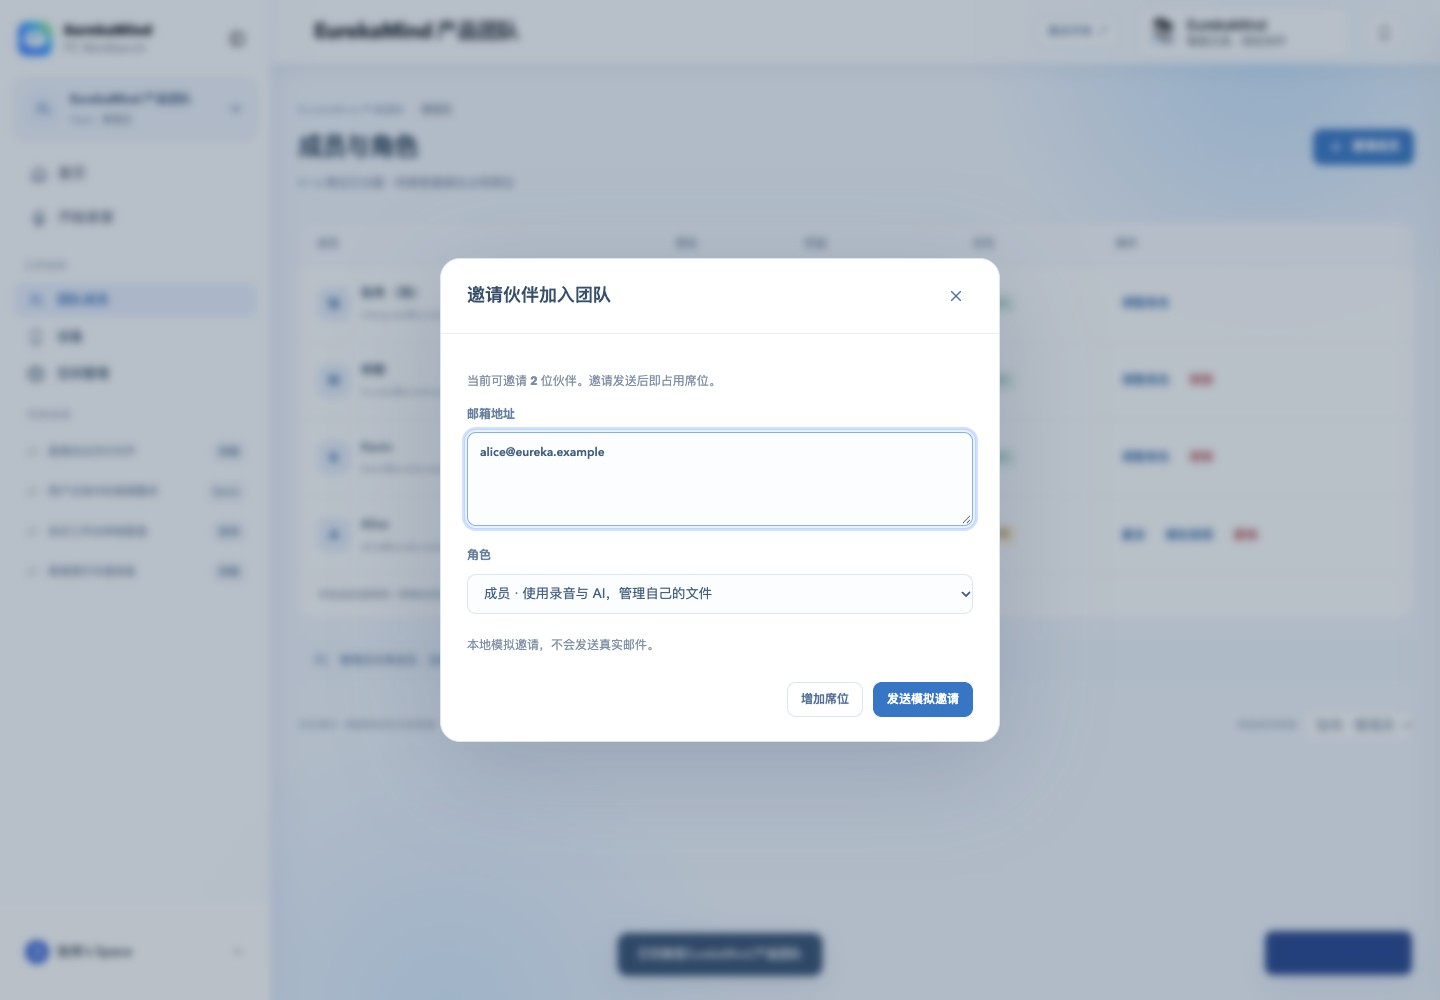
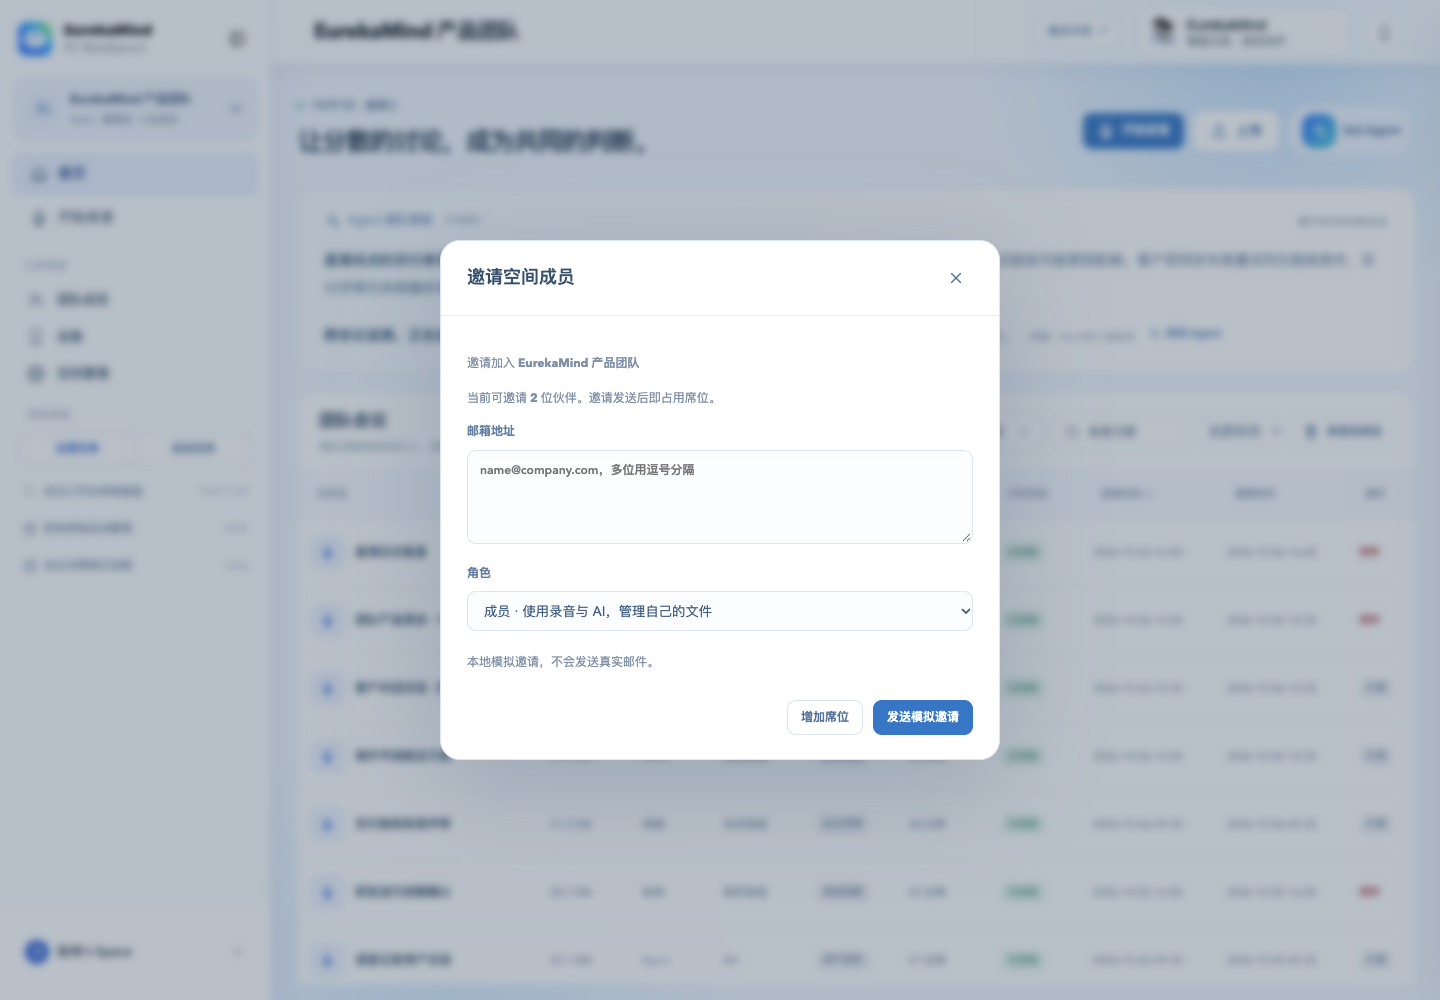
Add member invitation to workspace popup and reconcile PRD

diff --git a/src/prototype/one-to-one-reference/assets/workspace-ui.js b/src/prototype/one-to-one-reference/assets/workspace-ui.js
@@ -56,7 +56,7 @@
   function closeMenu(){menu.hidden=true;switcher.setAttribute('aria-expanded','false');$('#user-card')?.setAttribute('aria-expanded','false');}
   function openMenu(anchor){
     if(!menu.hidden&&menuAnchor===anchor){closeMenu();return;}closeMenu();menuAnchor=anchor;const accountMenu=anchor.id==='user-card';menu.setAttribute('aria-label',accountMenu?'我的账户与工作空间':'切换工作空间');menu.dataset.mode=accountMenu?'account':'spaces';$('#user-menu')?.classList.remove('show');
-    menu.innerHTML=`<div class="ws-menu-head"><span class="ws-space-avatar">${icon(w().type==='team'?'users':'user')}</span><div><strong>${esc(w().name)}</strong><small>${esc(data.account.email)}</small></div></div><div class="ws-menu-caption">工作空间</div>${data.spaces.filter(s=>M.member(s)).map(s=>btn('switch',`<span class="ws-mini-avatar">${s.type==='personal'?'P':esc(s.name[0])}</span><span>${esc(s.name)}<small>${s.type==='personal'?'个人订阅独立计费':(M.admin(s)?'管理员':'成员')+' · '+memberCount(s)+' 位成员 · Team Unlimited'}</small></span><b>${s.id===data.activeId?'✓':''}</b>`,'ws-menu-space',s.id)).join('')}<div class="ws-menu-divider"></div>${btn('plan',icon('plus')+'创建团队工作空间','ws-menu-item')}${btn('invites',icon('users')+`工作空间邀请 ${badge(data.invitations.filter(i=>i.status==='pending').length)}`,'ws-menu-item')}${accountMenu?`<div class="ws-menu-divider"></div>${btn('page',icon('mic')+'会议录音','ws-menu-item','files')}${btn('page',icon('phone')+'设备与同步','ws-menu-item','devices')}${btn('page',icon('task')+(w().type==='personal'?'个人订阅':'订阅与席位'),'ws-menu-item','billing')}${btn('settings',icon('edit')+'设置','ws-menu-item')}${btn('logout',icon('collapse')+'退出登录','ws-menu-item')}`:''}<p class="ws-menu-note">同一账号 · 各空间的数据与订阅独立</p>`;
+    menu.innerHTML=`<div class="ws-menu-head"><span class="ws-space-avatar">${icon(w().type==='team'?'users':'user')}</span><div><strong>${esc(w().name)}</strong><small>${esc(data.account.email)}</small></div></div><div class="ws-menu-caption">工作空间</div>${data.spaces.filter(s=>M.member(s)).map(s=>btn('switch',`<span class="ws-mini-avatar">${s.type==='personal'?'P':esc(s.name[0])}</span><span>${esc(s.name)}<small>${s.type==='personal'?'个人订阅独立计费':(M.admin(s)?'管理员':'成员')+' · '+memberCount(s)+' 位成员 · Team Unlimited'}</small></span><b>${s.id===data.activeId?'✓':''}</b>`,'ws-menu-space',s.id)).join('')}<div class="ws-menu-divider"></div>${btn('plan',icon('plus')+'创建团队工作空间','ws-menu-item')}${btn('invites',icon('users')+`工作空间邀请 ${badge(data.invitations.filter(i=>i.status==='pending').length)}`,'ws-menu-item')}${w().type==='team'&&isAdmin()?btn('invite',icon('users')+'邀请空间成员','ws-menu-item'):''}${accountMenu?`<div class="ws-menu-divider"></div>${btn('page',icon('mic')+'会议录音','ws-menu-item','files')}${btn('page',icon('phone')+'设备与同步','ws-menu-item','devices')}${btn('page',icon('task')+(w().type==='personal'?'个人订阅':'订阅与席位'),'ws-menu-item','billing')}${btn('settings',icon('edit')+'设置','ws-menu-item')}${btn('logout',icon('collapse')+'退出登录','ws-menu-item')}`:''}<p class="ws-menu-note">同一账号 · 各空间的数据与订阅独立</p>`;
     menu.hidden=false;anchor.setAttribute('aria-expanded','true');const rect=anchor.getBoundingClientRect();menu.style.left=Math.min(Math.max(12,rect.left),innerWidth-Math.min(338,innerWidth-24)-12)+'px';menu.style.top='';menu.style.bottom='';if(rect.top>innerHeight/2)menu.style.bottom=(innerHeight-rect.top+8)+'px';else menu.style.top=Math.min(rect.bottom+8,innerHeight-200)+'px';
   }
   function switchSpace(uid){
@@ -203,7 +203,7 @@
   function renderPlan(){modal('EurekaMind Team',`<div class="ws-plan-intro"><div><span class="ws-eyebrow">一个账号，无缝协作</span><h1>让团队的每次讨论<br>都有下一步。</h1><p>从独立记录到授权协作，在一个清晰可控的工作空间完成。</p><ul><li>${icon('folder')}<div><strong>独立的团队会议录音</strong><span>团队设备录音自动归集，成员共同查看</span></div></li><li>${icon('users')}<div><strong>成员与席位统一管理</strong><span>每个席位都享有完整 Unlimited 权益</span></div></li><li>${icon('phone')}<div><strong>设备绑定到空间</strong><span>录音同步位置清晰，切换时不混淆</span></div></li><li>${icon('spark')}<div><strong>团队 Credits 共享池</strong><span>按 Token 用量使用，独立于转写权益</span></div></li></ul></div><section class="ws-pricing"><span class="ws-eyebrow">TEAM UNLIMITED</span><div class="ws-cycle">${btn('plan-cycle','月付',setup.cycle==='month'?'active':'','month')}${btn('plan-cycle','年付',setup.cycle==='year'?'active':'','year')}</div><div class="ws-price">${money(setup.cycle==='year'?159:199)}<small>/ 席位 / 月</small></div><p>${setup.cycle==='year'?'按年结算，每席位 ¥1,908 / 年':'按月结算，灵活调整席位'}</p>${btn('setup','创建团队','primary')}<ul><li>✓ 每席位独立 Unlimited 转写</li><li>✓ 50,000 团队 Credits</li><li>✓ 成员、设备与账单管理</li><li>✓ 2–50 席位，可随时扩容</li></ul><small>本版本演示定价，不会发起真实支付。</small></section></div>`);dialog.classList.add('ws-dialog-wide');}
   function renderSetup(){dialog.classList.remove('ws-dialog-wide');modal('创建团队工作空间',`<div class="ws-steps"><b>1 空间信息</b><span>2 确认订单</span><span>3 开通</span></div>${field('工作空间名称','name',setup.name,'text','required maxlength="40" placeholder="例如：EurekaMind 产品团队"')}${select('公司所在地区','country',[['中国','中国'],['新加坡','新加坡'],['美国','美国'],['其他','其他']],setup.country)}<div class="ws-two-fields">${field('席位数量','seats',setup.seats,'number','required min="2" max="50" step="1"')}${select('计费周期','cycle',[['year','年付 · ¥159 / 席位 / 月'],['month','月付 · ¥199 / 席位 / 月']],setup.cycle)}</div><p class="ws-muted">至少 2 席位。你作为管理员占用 1 席位。个人订阅与文件保持独立。</p>`,btn('close-dialog','取消')+submit('确认订单'),'setup');}
   function checkout(){modal('确认团队订单',`<div class="ws-steps"><span>1 空间信息</span><b>2 确认订单</b><span>3 开通</span></div><div class="ws-order"><h3>${esc(setup.name)}</h3><p>${esc(setup.country)} · Team Unlimited · ${setup.cycle==='year'?'年付':'月付'}</p><div><span>${setup.seats} 席位 × ${money(M.price(setup.cycle))}</span><strong>${money(setup.seats*M.price(setup.cycle))}</strong></div><div><span>本次模拟支付</span><strong>${money(setup.seats*M.price(setup.cycle))}</strong></div></div><div class="ws-info">演示订单：无需银行卡，不会真实扣款或发送邮件。</div>`,btn('setup','上一步')+btn('payment-fail','模拟支付失败')+btn('payment','模拟支付并开通','primary'));}
-  function inviteDialog(){M.govern(w(),actor);modal('邀请伙伴加入团队',`<p>当前可邀请 <b>${Math.min(w().seats,w().pendingSeats??w().seats)-M.usedSeats(w())}</b> 位伙伴。邀请发送后即占用席位。</p><label class="ws-field">邮箱地址<textarea name="emails" required placeholder="name@company.com，多位用逗号分隔"></textarea></label>${select('角色','role',[['member','成员 · 使用录音与 AI，管理自己的文件'],['admin','管理员 · 管理成员、设备和账单']],'member')}<p class="ws-muted">本地模拟邀请，不会发送真实邮件。</p>`,btn('page','增加席位','','billing')+submit('发送模拟邀请'),'invite');}
+  function inviteDialog(){M.govern(w(),actor);M.writable(w());modal('邀请空间成员',`<p>邀请加入 <strong>${esc(w().name)}</strong></p><p>当前可邀请 <b>${Math.min(w().seats,w().pendingSeats??w().seats)-M.usedSeats(w())}</b> 位伙伴。邀请发送后即占用席位。</p><label class="ws-field">邮箱地址<textarea name="emails" required placeholder="name@company.com，多位用逗号分隔"></textarea></label>${select('角色','role',[['member','成员 · 使用录音与 AI，管理自己的文件'],['admin','管理员 · 管理成员、设备和账单']],'member')}<p class="ws-muted">本地模拟邀请，不会发送真实邮件。</p>`,btn('page','增加席位','','billing')+submit('发送模拟邀请'),'invite');}
   const download=(name,text,type='application/json')=>{const link=document.createElement('a');link.href=URL.createObjectURL(new Blob([text],{type}));link.download=name;link.click();setTimeout(()=>URL.revokeObjectURL(link.href),1000);};
   function registerDeviceDialog(){
     M.writable(w());
@@ -257,7 +257,7 @@
     if(name==='delete'){confirm('移入回收站？','此录音将从列表中移除，伙伴的访问权限也会暂时失效。30 天内可在录音回收站恢复。',()=>{mutate(()=>M.trash(w(),value,false,actor));selected=null;show('files');});return;}
     if(name==='restore'){mutate(()=>M.trash(w(),value,true,actor));render();toast('文件已恢复');return;}
     if(name==='record'){M.writable(w());modal('新建网页录音',`${field('会议名称','title','','text','required placeholder="例如：十月产品评审"')}<div class="ws-record-target">${icon('mic')} 保存到 <b>${esc(w().name)}</b> · 仅自己可见</div><p class="ws-muted">进入录音界面，可暂停、继续、标记重点和结束保存。本地模拟，不启用麦克风。</p>`,btn('close-dialog','取消')+submit('开始模拟录音'),'record');return;}
-    if(name==='invite')return inviteDialog();
+    if(name==='invite'){closeMenu();return inviteDialog();}
     if(name==='member-resend'||name==='member-accept'){mutate(()=>M.memberAction(data,w(),value,name==='member-resend'?'resend':'accept',null,actor));render();toast(name==='member-resend'?'模拟邀请已重发':'成员已模拟接受邀请');return;}
     if(name==='member-role'){M.govern(w(),actor);const m=w().members.find(m=>m.id===value);modal('调整成员角色',`<p>${esc(m.name)} · ${esc(m.email)}</p><input type="hidden" name="memberId" value="${value}">${select('角色','role',[['member','成员'],['admin','管理员']],m.role)}<p class="ws-muted">管理员可以管理账单、成员和设备，但不能访问其他人的私有文件。</p>`,btn('close-dialog','取消')+submit('保存角色'),'role');return;}
     if(name==='member-remove'){confirm('移除此成员？','将撤销此成员的空间访问权限并释放席位，设备绑定会解除。订阅的席位数量和账单不会自动减少。',()=>{mutate(()=>M.memberAction(data,w(),value,'remove',null,actor));render();toast('成员已移除，席位已释放');});return;}

diff --git a/tests/e2e/team-workspaces.spec.ts b/tests/e2e/team-workspaces.spec.ts
@@ -161,3 +161,26 @@ test('space chooser shows active team counts and keeps account actions only in M
   await action(page,'member-remove','alice').click();await action(page,'confirm').click();await expect(page.locator('#ws-switcher')).toContainText('3 位成员');await page.reload();await expect(page.locator('#ws-switcher')).toContainText('3 位成员');
   await switchTo(page,'team-design');await expect(page.locator('#ws-switcher')).toContainText('2 位成员');await switchTo(page,'personal');await expect(page.locator('#ws-switcher')).not.toContainText('位成员');
 });
+
+
+test('workspace popup invites members into current team with capacity and role guards',async({page})=>{
+  await page.setViewportSize({width:1440,height:1000});
+  const menu=page.locator('#ws-menu'), dialog=page.locator('#ws-dialog');
+  await page.locator('#ws-switcher').click();await expect(menu.locator('[data-ws-action=invite]')).toHaveCount(0);await page.keyboard.press('Escape');
+  await switchTo(page,'team-design');await page.locator('#ws-switcher').click();await expect(menu.locator('[data-ws-action=invite]')).toHaveCount(0);await page.keyboard.press('Escape');
+  await switchTo(page,'team-eureka');await page.locator('#ws-switcher').click();
+  await menu.getByRole('button',{name:'邀请空间成员',exact:true}).click();
+  await expect(menu).toBeHidden();await expect(page.locator('#ws-switcher')).toHaveAttribute('aria-expanded','false');
+  await expect(dialog).toContainText('邀请加入 EurekaMind 产品团队');await expect(dialog).toContainText('当前可邀请 2 位伙伴');
+  if(process.env.PRD_CAPTURE){await expect(page.locator('#ws-toast')).toBeHidden();await page.screenshot({path:'src/prototype/prd/images/member-invite.png'});}
+  const emails=dialog.locator('[name=emails]');
+  await emails.fill('one@example.com,two@example.com,three@example.com');await dialog.getByRole('button',{name:'发送模拟邀请'}).click();
+  await expect(dialog.locator('.ws-form-error')).toContainText('席位');await expect(emails).toHaveValue('one@example.com,two@example.com,three@example.com');
+  await emails.fill('newcolleague@example.com');await dialog.locator('[name=role]').selectOption('admin');await dialog.getByRole('button',{name:'发送模拟邀请'}).click();
+  const member=page.locator('#ws-view tr').filter({hasText:'newcolleague@example.com'});
+  await expect(member).toContainText('管理员');await expect(member).toContainText('待接受');await expect(page.locator('#ws-switcher')).toContainText('3 位成员');
+  await member.locator('[data-ws-action=member-accept]').click();await expect(page.locator('#ws-switcher')).toContainText('4 位成员');
+  await page.reload();await expect(page.locator('#ws-switcher')).toContainText('4 位成员');await action(page,'page','members').click();await expect(member).toContainText('已加入');
+  await page.locator('#ws-switcher').click();await menu.getByRole('button',{name:'邀请空间成员',exact:true}).click();await dialog.getByRole('button',{name:'增加席位',exact:true}).click();await expect(dialog).toBeHidden();await expect(page.locator('#ws-view')).toContainText('订阅与席位');
+  await action(page,'expire').click();await action(page,'confirm').click();await page.locator('#ws-switcher').click();await menu.getByRole('button',{name:'邀请空间成员',exact:true}).click();await expect(dialog).toBeHidden();await expect(page.locator('#ws-toast')).toContainText('只读');
+});

diff --git a/src/prototype/one-to-one-reference/team-only-app.html b/src/prototype/one-to-one-reference/team-only-app.html
@@ -5316,7 +5316,7 @@
   <link rel="stylesheet" href="assets/workspace-ui.css?v=14" />
   <script src="assets/workspace-model.js?v=12"></script>
   <script src="assets/personal-subscription-model.js?v=1"></script>
-  <script src="assets/workspace-ui.js?v=16"></script>
+  <script src="assets/workspace-ui.js?v=17"></script>
 <link rel="stylesheet" href="assets/recording-upload.css?v=1">
 <script src="assets/recording-upload.js?v=1"></script>
 <link rel="stylesheet" href="assets/personal-assets.css?v=2">

diff --git a/README.md b/README.md
@@ -50,7 +50,7 @@ npm run test:e2e    # Playwright 浏览器测试（需先安装依赖）
 
 团队首页围绕会议展开：连续的 Agent 团队简报（内容与数量由实际发现决定，同一议题合并叙述）、可核对的会议原文与完整会议列表。不展示个人日程、待办、灵感、记账和全部闪念，也不提供独立「团队文件」或通用文件管理入口。团队会议保留创建人，移除重复的创建成员列及列表导出/分享入口，复用六页签详情、播放器、原位编辑、导出、成员分享、回收站和页面内 Agent。团队不提供联系人入口，个人联系人完整保留。侧栏历史会话仅展示本人，移除成员归属标签，支持悬停删除及“全部任务 / 自动任务”切换。自动任务支持编辑、启停和手动模拟运行，不进行真实后台调度。Agent 支持引用资料、联网开关、回答模式及拖拽调整宽度。默认产品团队有 12 条录音（张伟视角可见 11 条）；旧数据增量补齐，新建团队保持空态。
 
-Team 只使用一种 Unlimited 席位；邀请占席，移除成员释放席位但不自动减账单；加席通过数量预览 → 费用确认 → 模拟支付 → 成功后才生效，支持失败重试、取消、待付恢复与幂等账单；减席与周期切换安排到下一账期，可通过「模拟下一账期」验证。管理员可以管理成员与设备元数据，但不会获得成员私有录音的访问权。设备支持手动录入 SN、型号并绑定成员：管理员可选团队有效成员，普通成员仅本人；重复 SN 拒绝，长数字与前导零按文本保留。原设备申请 / 发放入口已替换，历史设备保留。“绑定已有设备”打开下载 App / 购买设备双入口弹层，实际绑定在手机 App 内完成；Web 不再模拟直接改绑，切换空间不会改变同步目标。跨空间资料通过导出/导入 JSON 创建独立私有副本，兼容原会议详情导出的演示 JSON。
+Team 只使用一种 Unlimited 席位；邀请占席，移除成员释放席位但不自动减账单；加席通过数量预览 → 费用确认 → 模拟支付 → 成功后才生效，支持失败重试、取消、待付恢复与幂等账单；减席与周期切换安排到下一账期，可通过「模拟下一账期」验证。管理员可以管理成员与设备元数据，但不会获得成员私有录音的访问权。设备支持手动录入 SN、型号并绑定成员：管理员可选团队有效成员，普通成员仅本人；重复 SN 拒绝，长数字与前导零按文本保留。原设备申请 / 发放入口已替换，历史设备保留。“绑定已有设备”打开下载 App / 购买设备双入口弹层，实际绑定在手机 App 内完成；Web 不再模拟直接改绑，切换空间不会改变同步目标。首页统一通过「上传」接收 m4a/mp3/wav/opus/flac/aac 音频，旧纪要 JSON 导入入口已撤下；会议详情仍支持导出演示 JSON。
 
 EurekaMind 独立采用 Team Credits 共享池：所有成员的 Agent 会话及自动任务按输入/输出 token 模拟用量扣减，不按席位分配或按次固定扣费；与成员转写权益、个人空间 Credits 分别记账。额外购买包含套餐、订单、失败重试、取消、刷新继续支付、成功到账与下载账单，支付成功只发放一次。演示费率为每 1,000 输入 tokens = 1 Credit、每 1,000 输出 tokens = 2 Credits，保留三位小数；生产须使用模型实际返回用量及服务端费率。团队页面底部可切换演示成员视角验证权限。该入口仅用于本地原型测试，不代表实际身份切换或服务端授权。
 
@@ -86,4 +86,4 @@ EurekaMind 独立采用 Team Credits 共享池：所有成员的 Agent 会话及
 
 新增模型 `personal-subscription-model.js` 与 `personal-calendar-subscription.spec.ts` 覆盖订单幂等、存储失败、日历/弹窗/Agent 布局和各屏幕尺寸；PRD 的个人日程、个人订阅与验收章节已同步配图。
 
-顶部工作空间选择器与左下角账户菜单分别呈现：顶部仅空间切换、创建团队与邀请，页面快捷操作保留在「我的」。当前 Team 和下拉中的 Team 展示已加入成员人数（不含待接受或已移除成员），随成员状态更新。
+顶部工作空间选择器与左下角账户菜单分别呈现：顶部提供空间切换、创建团队、工作空间邀请，当前 Team 管理员另有「邀请空间成员」直达邮箱 / 角色邀请弹窗；页面快捷操作保留在「我的」。当前 Team 和下拉中的 Team 展示已加入成员人数（不含待接受或已移除成员），随成员状态更新。

diff --git a/src/prototype/prd/README.md b/src/prototype/prd/README.md
@@ -1,12 +1,12 @@
 # EurekaMind PRD 内容维护
 
-本目录由 `prepare-prototype.mjs` 拷贝到静态站，访问 `/prototype/prd/index.html`，不依赖额外后端或 CDN。目前共 34 章，版本切换、打印 / PDF、导入、导出和发布位于顶栏。
+本目录由 `prepare-prototype.mjs` 拷贝到静态站，访问 `/prototype/prd/index.html`，不依赖额外后端或 CDN。目前共 35 章，版本切换、打印 / PDF、导入、导出和发布位于顶栏。
 
 ## 数据格式
 
 `content.json` 是发布内容源，schemaVersion=1、documentId 固定。每章包含稳定锚点 id、title、group、summary、body 和纯文本 reviewNotes。正文支持标题、表格、列表、粗体、行内代码、引用、本目录 images 图片和 flow 流程图；原始 HTML 不执行。
 
-每次发布更新 revision。编辑器比较完整发布内容摘要，避免旧本地稿静默覆盖新基线。网页编辑不增删章节；结构变化由仓库维护。旧 37 章稿件读取时只隐藏已撤下的 evidence、reference、review 三章，保留其他章节修改和原存储；再次保存生成 34 章版本。其他结构不匹配的导入仍拒绝。
+每次发布更新 revision。编辑器比较完整发布内容摘要，避免旧本地稿静默覆盖新基线。网页编辑不增删章节；结构变化由仓库维护。旧稿移除已撤下的 evidence、reference、review 三章后，若剩余结构与当前版一致，可保留其他章节修改和原存储。缺少个人订阅章节的 34 / 37 章旧稿，需要先通过仓库合并结构变化再导入；不会静默覆盖或丢弃旧章节内容。
 
 ## 编辑、备份和发布
 
@@ -28,7 +28,7 @@ PRD_ILLUSTRATIONS=1 PLAYWRIGHT_CHANNEL=chrome npm run test:e2e -- tests/e2e/prd-
 npm run build
 ```
 
-`PRD_CAPTURE=1` 仅用于显式刷新 prd-review.spec.ts 的概览截图。参考 PDF 不复制到公共站点。
+`PRD_CAPTURE=1` 用于显式刷新相应功能测试内的截图；使用测试文件及 `-g` 限定范围，避免覆盖无关配图。参考 PDF 不复制到公共站点。
 
 ## 流程图
 
